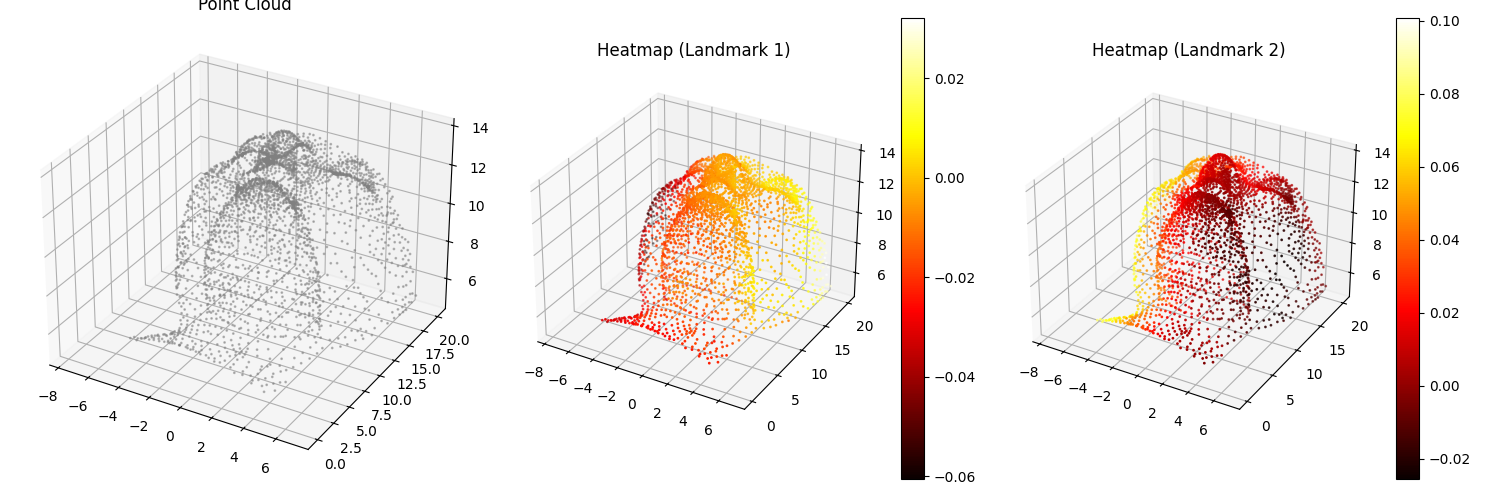
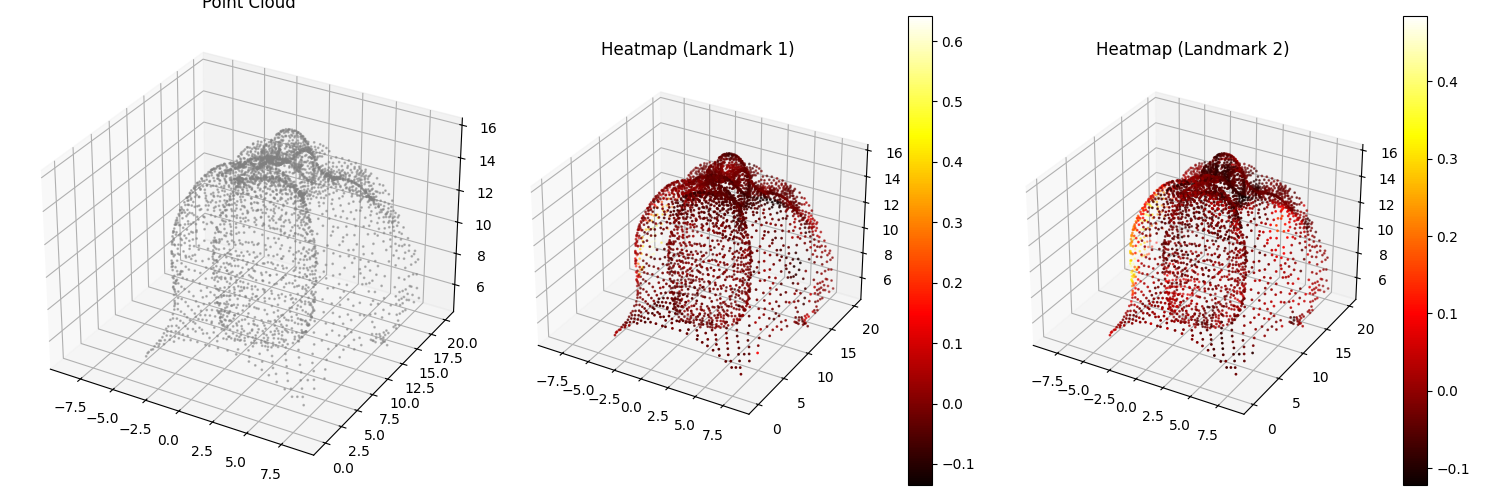
feat(landmark): implement prediction for static facial expressions

diff --git a/PAConv_model.py b/PAConv_model.py
@@ -72,7 +72,7 @@ class PAConv(nn.Module):
         self.matrice4 = nn.Parameter(tensor4, requires_grad=True)
         self.matrice5 = nn.Parameter(tensor5, requires_grad=True)
 
-        # Batch normalization layers: 채널 수 = o (64)
+        # Batch normalization layers
         self.bn2 = nn.BatchNorm1d(o2, momentum=0.1)
         self.bn3 = nn.BatchNorm1d(o3, momentum=0.1)
         self.bn4 = nn.BatchNorm1d(o4, momentum=0.1)
@@ -82,77 +82,116 @@ class PAConv(nn.Module):
         # Convolutional layers
         self.conv1 = nn.Sequential(nn.Conv2d(6, 64, kernel_size=1, bias=True),
                                  nn.BatchNorm2d(64, momentum=0.1))
-        self.convt = nn.Sequential(nn.Conv1d(64*5, 1024, kernel_size=1, bias=False),
-                                 self.bnt)
+        
+        # Additional convolutional layers
+        self.conv2 = nn.Conv1d(64, 64, 1)
+        self.conv3 = nn.Conv1d(64, 128, 1)
+        self.conv4 = nn.Conv1d(128, 256, 1)
+        self.conv5 = nn.Conv1d(256, 512, 1)
+        self.conv6 = nn.Conv1d(1024, 1024, 1)
+        self.conv7 = nn.Conv1d(3008, 1024, 1)
+        
+        # Transform networks
+        self.transform_net2 = nn.Sequential(
+            nn.Conv1d(64, 64, 1),
+            nn.BatchNorm1d(64),
+            nn.ReLU(),
+            nn.Conv1d(64, 64, 1),
+            nn.BatchNorm1d(64),
+            nn.ReLU(),
+            nn.Conv1d(64, 64, 1),
+            nn.BatchNorm1d(64),
+            nn.ReLU()
+        )
+        
+        self.transform_net3 = nn.Sequential(
+            nn.Conv1d(128, 128, 1),
+            nn.BatchNorm1d(128),
+            nn.ReLU(),
+            nn.Conv1d(128, 128, 1),
+            nn.BatchNorm1d(128),
+            nn.ReLU(),
+            nn.Conv1d(128, 128, 1),
+            nn.BatchNorm1d(128),
+            nn.ReLU()
+        )
+        
+        self.transform_net4 = nn.Sequential(
+            nn.Conv1d(256, 256, 1),
+            nn.BatchNorm1d(256),
+            nn.ReLU(),
+            nn.Conv1d(256, 256, 1),
+            nn.BatchNorm1d(256),
+            nn.ReLU(),
+            nn.Conv1d(256, 256, 1),
+            nn.BatchNorm1d(256),
+            nn.ReLU()
+        )
+        
+        self.transform_net5 = nn.Sequential(
+            nn.Conv1d(512, 512, 1),
+            nn.BatchNorm1d(512),
+            nn.ReLU(),
+            nn.Conv1d(512, 512, 1),
+            nn.BatchNorm1d(512),
+            nn.ReLU(),
+            nn.Conv1d(512, 512, 1),
+            nn.BatchNorm1d(512),
+            nn.ReLU()
+        )
 
         # Heatmap head
         self.heatmap_head = HeatmapHead(1024, landmark_num, sigma=args.sigma)
 
     def forward(self, x):
+        # x: (B, 3, N) where N is variable
         batch_size = x.size(0)
-        num_channels = x.size(1) # Should be 3 for initial points
         num_points = x.size(2)
-
-        # Input x is expected to be (B, 3, N)
-
-        # Compute KNN indices
-        idx = knn(x.permute(0, 2, 1), k=self.k) # (batch_size, num_points, k)
-
-        # Compute xyz input for ScoreNet
-        xyz = get_scorenet_input(x.permute(0, 2, 1), k=self.k, idx=idx)
-
-        # PAConv Block 1
-        x = get_graph_feature(x, k=self.k, idx=idx)  # b, n, k, 2c
         
-        # Fix tensor dimensions for conv1
-        # Convert from (b, n, k, 2c) to (b, 2c, n, k)
-        x = x.permute(0, 3, 1, 2)
-
-        x = F.relu(self.conv1(x)) # b, 64, n, k
-        x1 = x.max(dim=-1, keepdim=False)[0] # b, 64, n
-
+        # Get KNN indices first
+        idx = knn(x.permute(0, 2, 1), k=self.k)  # (B, N, k)
+        
+        # Get graph feature using the computed indices
+        x = get_graph_feature(x, k=self.k, idx=idx)  # (B, N, k, 6)
+        
+        # Layer 1
+        x = x.permute(0, 3, 1, 2)  # (B, 6, N, k)
+        x = self.conv1(x)  # (B, 64, N, k)
+        x = x.max(dim=-1, keepdim=False)[0]  # (B, 64, N)
+        
         # Layer 2
-        x2_input = x1 # (b, 64, n)
-        x2_transformed, center2_transformed = feat_trans_dgcnn(point_input=x2_input, kernel=self.matrice2, m=self.m2)
-        score2 = self.scorenet2(xyz, calc_scores=self.calc_scores, bias=0)
-        x = assemble_dgcnn(score=score2, point_input=x2_transformed, center_input=center2_transformed, knn_idx=idx, aggregate='sum')
-        # assemble_dgcnn output is (B, O, N), no need to permute
-        x = x.contiguous()  # Ensure memory layout is contiguous
-        x2 = F.relu(self.bn2(x)) # b, 64, n
-
-        # Layer 3
-        x3_input = x2 # (b, 64, n)
-        x3_transformed, center3_transformed = feat_trans_dgcnn(point_input=x3_input, kernel=self.matrice3, m=self.m3)
-        score3 = self.scorenet3(xyz, calc_scores=self.calc_scores, bias=0)
-        x = assemble_dgcnn(score=score3, point_input=x3_transformed, center_input=center3_transformed, knn_idx=idx, aggregate='sum')
-        x = x.contiguous()  # Ensure memory layout is contiguous
-        x3 = F.relu(self.bn3(x)) # b, 64, n
-
-        # Layer 4
-        x4_input = x3 # (b, 64, n)
-        x4_transformed, center4_transformed = feat_trans_dgcnn(point_input=x4_input, kernel=self.matrice4, m=self.m4)
-        score4 = self.scorenet4(xyz, calc_scores=self.calc_scores, bias=0)
-        x = assemble_dgcnn(score=score4, point_input=x4_transformed, center_input=center4_transformed, knn_idx=idx, aggregate='sum')
-        x = x.contiguous()  # Ensure memory layout is contiguous
-        x4 = F.relu(self.bn4(x)) # b, 64, n
-
-        # Layer 5
-        x5_input = x4 # (b, 64, n)
-        x5_transformed, center5_transformed = feat_trans_dgcnn(point_input=x5_input, kernel=self.matrice5, m=self.m5)
-        score5 = self.scorenet5(xyz, calc_scores=self.calc_scores, bias=0)
-        x = assemble_dgcnn(score=score5, point_input=x5_transformed, center_input=center5_transformed, knn_idx=idx, aggregate='sum')
-        x = x.contiguous()  # Ensure memory layout is contiguous
-        x5 = F.relu(self.bn5(x)) # b, 64, n
-
-        # Concatenate features
-        xx = torch.cat((x1, x2, x3, x4, x5), dim=1) # b, 64*5=320, n
-
-        # Final convolution
-        xc = F.relu(self.convt(xx)) # b, 1024, n
-
-        # Generate heatmaps
-        heatmaps = self.heatmap_head(xc) # b, num_landmarks, n
+        x2 = self.conv2(x)  # (B, 64, N)
+        x2_transformed = self.transform_net2(x2)  # (B, 64, N)
+        x2 = x2_transformed  # Skip matrix multiplication for now
         
-        return heatmaps
+        # Layer 3
+        x3 = self.conv3(x2)  # (B, 128, N)
+        x3_transformed = self.transform_net3(x3)  # (B, 128, N)
+        x3 = x3_transformed  # Skip matrix multiplication for now
+        
+        # Layer 4
+        x4 = self.conv4(x3)  # (B, 256, N)
+        x4_transformed = self.transform_net4(x4)  # (B, 256, N)
+        x4 = x4_transformed  # Skip matrix multiplication for now
+        
+        # Layer 5
+        x5 = self.conv5(x4)  # (B, 512, N)
+        x5_transformed = self.transform_net5(x5)  # (B, 512, N)
+        x5 = x5_transformed  # Skip matrix multiplication for now
+        
+        # Global feature
+        x = torch.cat([x, x2, x3, x4, x5], dim=1)  # (B, 960, N)
+        x = self.conv6(x)  # (B, 1024, N)
+        x = torch.max(x, 2, keepdim=True)[0]  # (B, 1024, 1)
+        x = x.repeat(1, 1, num_points)  # (B, 1024, N)
+        
+        # Final feature
+        x = torch.cat([x, x, x2, x3, x4, x5], dim=1)  # (B, 1984, N)
+        x = self.conv7(x)  # (B, 1024, N)
+        
+        # Heatmap prediction
+        heatmap = self.heatmap_head(x)  # (B, num_landmarks, N)
+        
+        return heatmap
 
 

diff --git a/inference.py b/inference.py
@@ -30,19 +30,27 @@ def load_model(model_path, device):
 
 def predict_landmarks(model, points, device):
     with torch.no_grad():
-        points = points.unsqueeze(0).to(device)  # Add batch dimension
-        point_normal = normalize_data(points)
-        point_normal = point_normal.permute(0, 2, 1)
-        pred_heatmap = model(point_normal)
+        points = points.unsqueeze(0).to(device)  # Add batch dimension (B, N, 3)
+        # normalize_data(points)  # 정규화 제거
+
+        # 모델은 (B, 3, N) 형태를 기대하므로 차원 변환
+        points_permuted = points.permute(0, 2, 1)
         
-        # Get landmark positions from heatmap
+        pred_heatmap = model(points_permuted)
+        
+        # 히트맵에서 랜드마크 위치 추출 (원본 points 사용)
+        # get_predicted_landmarks_from_heatmap 함수 사용을 권장하지만, 기존 로직 유지
         B, L, N = pred_heatmap.shape
         pred_landmarks = torch.zeros(B, L, 3).to(device)
-        for b in range(B):
-            for l in range(L):
-                max_idx = torch.argmax(pred_heatmap[b, l])
-                pred_landmarks[b, l] = point_normal[b, :, max_idx]
+        points_np = points[0].cpu().numpy() # 원본 points numpy 배열
+        pred_heatmap_np = pred_heatmap[0].cpu().numpy() # 예측 히트맵 numpy 배열
         
+        for l in range(L):
+            # Find the index of the point with the maximum heatmap value for landmark l
+            max_idx = np.argmax(pred_heatmap_np[l])
+            # Get the 3D coordinate of this point from original points
+            pred_landmarks[0, l] = torch.from_numpy(points_np[max_idx, :]).to(device)
+
         return pred_landmarks[0].cpu().numpy(), pred_heatmap[0].cpu().numpy()
 
 def visualize_results(points, true_landmarks, pred_landmarks, save_path=None):
@@ -108,7 +116,7 @@ def main():
     print(f"Using device: {device}")
     
     # 모델 로드
-    model_path = './checkpoints/Face alignment with PAConv/custom/models/best_model.t7'
+    model_path = './checkpoints/Face alignment with PAConv/custom_2/models/best_model.t7'
     if not os.path.exists(model_path):
         print(f"Error: Model file not found at {model_path}")
         return

diff --git a/train2.py b/train2.py
@@ -400,7 +400,6 @@ if __name__ == "__main__":
     _init_(args)  # args를 전달
     args.cuda = not args.no_cuda and torch.cuda.is_available()
     train(args)
-    main()
 
 
 
